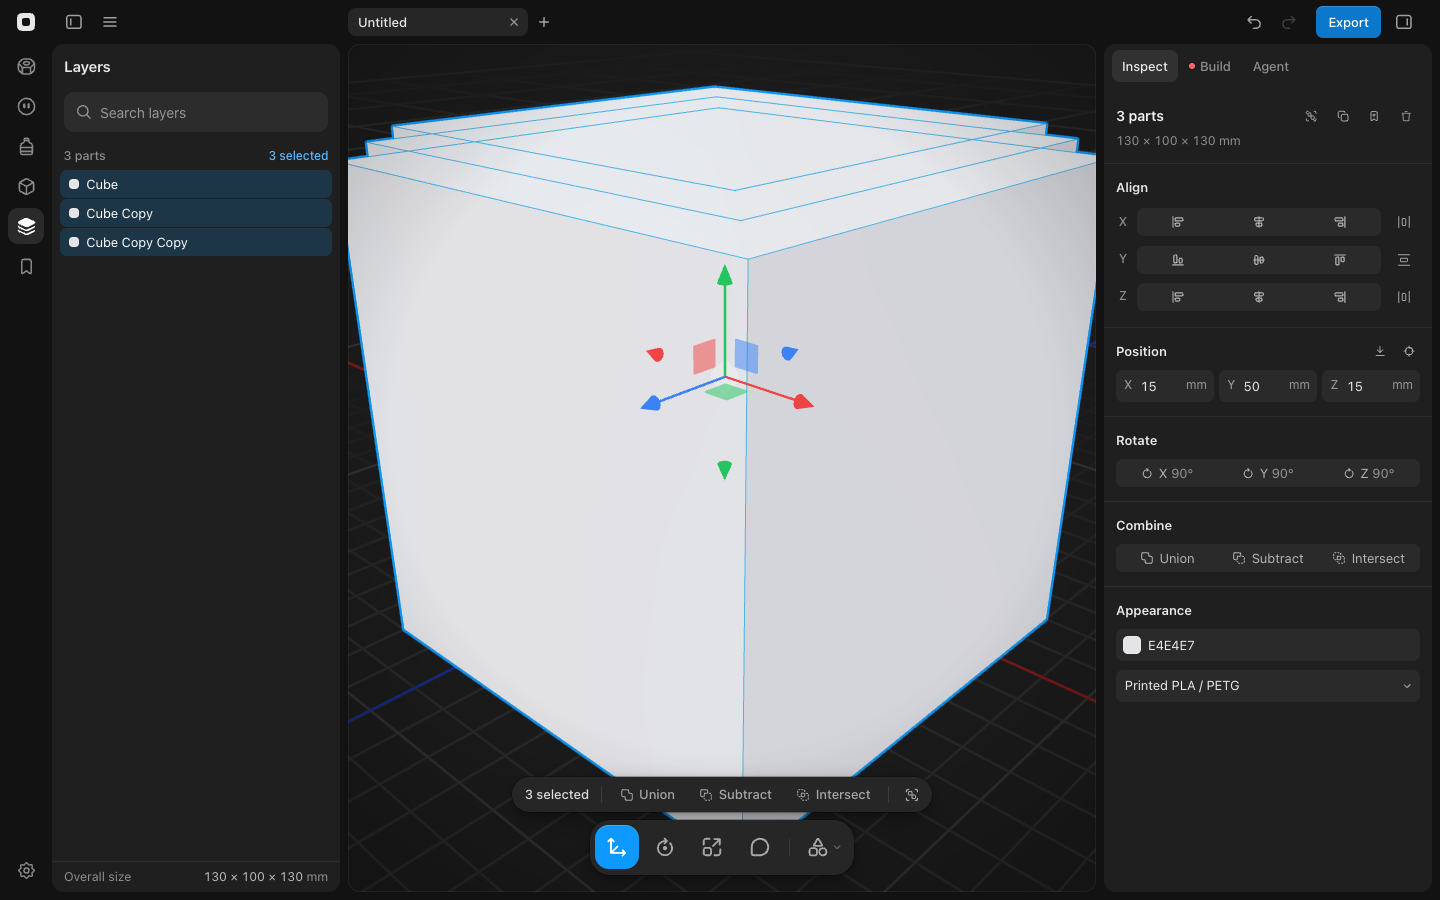
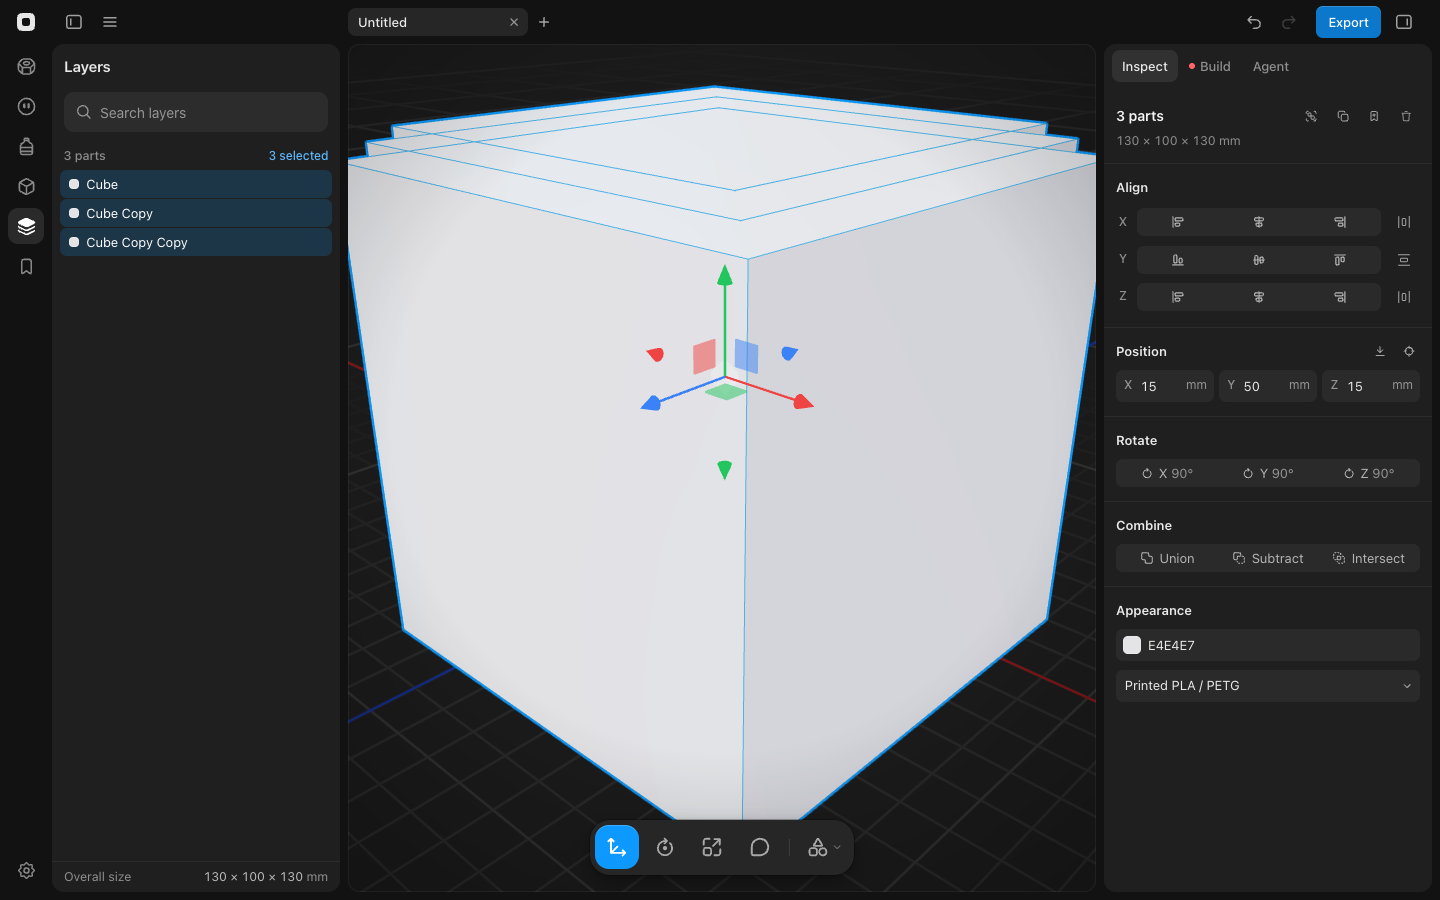
Drop the floating selection bar, which repeated the multi-selection Inspector
With two or more parts selected, a pill above the toolbar showed the
count, Union, Subtract, Intersect and Group/Ungroup, while the Inspector
beside it showed "N parts", the same Combine strip and the same group
buttons. Combine stays in the Inspector, the right-click menu and ⌘K,
and grouping on ⌘G / ⇧⌘G. The guides now say nothing floats over the
canvas for a multi-selection, and the Align help screenshot is retaken.

Changed region(s): [[0.375, 0.84, 0.5938, 0.9333]]

diff --git a/src/workspace/CanvasCard.tsx b/src/workspace/CanvasCard.tsx
@@ -5,7 +5,6 @@ import { FileImportIcon, PhotoIcon, Toast } from '../design-system';
 import { MarkBar } from './MarkBar';
 import { PlateCanvas } from './PlateCanvas';
 import { SceneViewport } from './SceneViewport';
-import { SelectionBar } from './SelectionBar';
 import type { AgentSession } from './useAgentSession';
 import type { CanvasMenu } from './useCanvasMenu';
 import type { useCanvasDrop } from './useCanvasDrop';
@@ -76,9 +75,8 @@ function CanvasToolbar({ core, actions, ui }: Pick<CanvasCardProps, 'core' | 'ac
   );
 }
 
-function CanvasBottomBar({ core, actions, ui, showSelectionBar }: CanvasCardProps & { showSelectionBar: boolean }) {
-  const { tool, selection, marks, toasts } = core;
-  const { ops, edits } = actions;
+function CanvasBottomBar({ core, actions, ui }: CanvasCardProps) {
+  const { tool, marks, toasts } = core;
 
   return (
     <div className="absolute bottom-5 inset-x-0 z-20 flex flex-col items-center gap-[8px] pointer-events-none">
@@ -88,14 +86,6 @@ function CanvasBottomBar({ core, actions, ui, showSelectionBar }: CanvasCardProp
         </div>
       )}
       {tool.marking && !core.printing.mode && <MarkBar marks={marks} onDone={() => tool.toggleMarking(false)} />}
-      {showSelectionBar && !core.printing.mode && (
-        <SelectionBar
-          selectedParts={selection.selectedParts}
-          onBoolean={ops.runBoolean}
-          onGroup={edits.group}
-          onUngroup={edits.ungroup}
-        />
-      )}
       <div className="pointer-events-auto">
         <CanvasToolbar core={core} actions={actions} ui={ui} />
       </div>
@@ -105,11 +95,8 @@ function CanvasBottomBar({ core, actions, ui, showSelectionBar }: CanvasCardProp
 
 export function CanvasCard(props: CanvasCardProps) {
   const { active, core, actions, agent, pointerHandlers, drop } = props;
-  const { selection, tool } = core;
   const { creation } = actions;
   const { imageInputRef } = creation;
-  const showSelectionBar =
-    selection.selectedParts.length > 1 && tool.transformMode !== 'pose' && !tool.marking && !tool.measuring;
 
   return (
     <main
@@ -136,7 +123,7 @@ export function CanvasCard(props: CanvasCardProps) {
         aria-hidden
         className="absolute inset-0 z-10 rounded-[12px] pointer-events-none shadow-[inset_0_0_0_1px_rgba(255,255,255,0.05)]"
       />
-      <CanvasBottomBar {...props} showSelectionBar={showSelectionBar} />
+      <CanvasBottomBar {...props} />
     </main>
   );
 }

diff --git a/src/index.css b/src/index.css
@@ -207,7 +207,7 @@
 
 @layer components {
   /*
- * Floating surfaces over the canvas (toolbar, selection bar, toasts, comment cards) and
+ * Floating surfaces over the canvas (toolbar, toasts, comment cards) and
  * menus/popovers/tooltips. Matte, like the rest of the app: a solid neutral fill and a soft
  * shadow; no translucency, specular highlight or outline.
  */

diff --git a/docs/guide/joints-and-motion.md b/docs/guide/joints-and-motion.md
@@ -14,7 +14,7 @@ A robot is posable once its degrees of freedom are declared. Posing never edits 
 - **Joints belong to their parts.** Deleting parts deletes every joint whose moving side is gone and drops the deleted ids from the rest (`jointsWithoutParts` in `kinematics.ts`, run by every `commitParts`); undo brings parts and joints back together.
 - **Undo:** pose changes are on the scene's undo timeline. Each history step (`Snapshot` in `SceneWorkspace`) holds the parts, the joints and the pose; `usePosing` reports every pose edit (sliders, the ring, saved poses, Rest pose, the agent's `pose`) through `onPoseEdit`, and edits less than 700 ms apart fold into one step, so a drag undoes in one go. Playback, scrubbing and pausing aren't recorded.
 - **Canvas:** `Viewport3D` takes per-part rest → posed motion (`pose`). Measurements, interference (check_scene), servo outputs and sweeps run in the modeled pose (`withRest`); renders show the pose. Moving a part while posed maps the edit back to the modeled pose.
-- **Pose tab** (right panel, beside Inspect, only while the selection is on a robot; P opens it, selecting the first robot if needed). It shows that robot's animations, poses and joints: while it's open, clicking a part picks the joint that turns it, and a single ring on its axis (an arrow for a slider) turns it in 1° / 1 mm steps (Shift is free). Picking a toolbar tool leaves the tab. Contents: Animations (play, scrub, + → Walk Cycle or Import BVH, or straight to Import BVH when the robot has no legs; right-click for Loop, Rename, Delete), Poses (Rest pose and Save pose in the header; click applies), then one collapsible section per limb (Head, Torso, Left arm…) with label · slider · value rows. The selection bar hides while posing.
+- **Pose tab** (right panel, beside Inspect, only while the selection is on a robot; P opens it, selecting the first robot if needed). It shows that robot's animations, poses and joints: while it's open, clicking a part picks the joint that turns it, and a single ring on its axis (an arrow for a slider) turns it in 1° / 1 mm steps (Shift is free). Picking a toolbar tool leaves the tab. Contents: Animations (play, scrub, + → Walk Cycle or Import BVH, or straight to Import BVH when the robot has no legs; right-click for Loop, Rename, Delete), Poses (Rest pose and Save pose in the header; click applies), then one collapsible section per limb (Head, Torso, Left arm…) with label · slider · value rows.
 - **Animation** (`utils/animation.ts`): `sampleAnimation` (Catmull-Rom or linear; whole-body turns slerp), `buildKeyframes` (values and IK goals per keyframe), `buildGait` (any number of feet; stance feet stay planted, swing feet lift; stride, lift, period, duty, crouch, bob, sway, heading and oscillators default from the leg length). Playback runs in `usePosing` and drives the canvas directly; pausing commits the frame as the pose.
 - **Posable hands** (`data/articulatedParts.ts`): catalog parts whose maker publishes a URDF / MJCF with the joints (Amazing Hand, LEAP, ORCA, Ability, Dex3-1, Dex5-1, Allegro, Linker L10 and O6) go in from Parts → Hands (click, + or drag) as that articulated model: links as `mesh` parts, fingers as joints, turned by the same `rotate` as their catalog mesh (`importRobot`'s `rotate` option uses tools/parts' `(x, z, −y)` frame), framed and selected. The palm carries `componentId`, so the Inspector shows Product and the BOM counts the hand once. If the description can't be downloaded, the fixed catalog mesh goes in instead. Hands without a published description (Inspire, HOPEJr, Aero) stay one mesh.
 - **The maker's data is never missing:** an import captures everything the checks and tools use (link masses and centres of mass, joint ranges, torque and speed limits), and every link records where it came from (`ScenePart.robotLink`: robot, link, source link, `rotate`, data `version`). When imports start capturing something new: add it to `publishedData` (it feeds both the import and the upgrade) and bump `ROBOT_DATA_VERSION`. Robots below the current version are upgraded from their description alone (no meshes), matched by link and joint name so poses and edits are kept: open scenes when they load (undo history included), saved scenes in the background when the app starts (saved back in place, `keepUpdatedAt`). Older robots without a recorded source are found by name (a preset, a Parts hand, Robots → Imported); one that can't be found gets a toast to insert it again. Animations report joints faster than their speed limit.

diff --git a/docs/guide/inspector-and-selection.md b/docs/guide/inspector-and-selection.md
@@ -46,7 +46,6 @@ Part of the Basecase guide. [AGENTS.md](../../AGENTS.md) holds the rules every c
 - **Booleans:**
   - With 2+ parts, Union, Subtract (from the primary) and Intersect replace them with one mesh.
   - With one part, Subtract uses every visible Cutout that overlaps it.
-- **Selection bar:** with 2+ parts selected, a glass pill above the toolbar shows the count, Union, Subtract, Intersect and Group/Ungroup.
 - **Align (`AlignBar`):**
   - One icon strip per axis: X Left·Center·Right, Y Bottom·Middle·Top, Z Back·Center·Front, with Spread beside each (disabled under 3 parts). The right-click Align submenu and the multi-selection Inspector show the same strip; a click in the submenu closes the menu.
   - Several parts align to their shared bounds; one part aligns to the origin (Bottom = floor).
@@ -84,4 +83,4 @@ There's no Shape tab. These panels appear in place of the Inspector only while t
 - **Sketch:** opened from Shapes ▾ → Sketch, ⌘K or right-click. Extrude / Revolve, Points / Freehand / Hole tools, snap, undo point, clear, then Output fields.
 - **Import SVG:** opened from Shapes ▾, ⌘K, right-click or the Library. Drop zone, samples, paste code, preview, then Output fields. “Edit in Sketch”, beside the preview, hands the outline to Sketch.
 - Adding a part from Sketch or SVG closes the panel and shows the new part in the Inspector.
-- Combine lives in the selection bar, the right-click menu and the multi-selection Inspector.
+- Combine lives in the multi-selection Inspector, the right-click menu and ⌘K; nothing floats over the canvas for a multi-selection.

diff --git a/docs/guide/visual-system.md b/docs/guide/visual-system.md
@@ -31,7 +31,7 @@ Part of the Basecase guide. [AGENTS.md](../../AGENTS.md) holds the rules every c
   - A new container that holds dividers sets `--pad-x` to its horizontal padding (e.g. `[--pad-x:8px] p-[var(--pad-x)]`) instead of a plain `p-2`.
   - Borders on a block that already spans the container (panel headers, `Section`) count as full width.
 - **Floating surfaces (`.glass`, `.glass-menu` in `index.css`; the names are historical):**
-  - Use only for controls floating over the 3D canvas (toolbar, selection bar, toasts, comment cards), the composer's quote card, and menus, popovers and tooltips.
+  - Use only for controls floating over the 3D canvas (toolbar, toasts, comment cards), the composer's quote card, and menus, popovers and tooltips.
   - **Matte, not glass:** a solid neutral fill (`#262626` floating controls, `#282828` menus) and a soft drop shadow with a 0.5px dark keyline. No translucency, backdrop blur, specular highlight or light outline.
   - Never on the panel cards or the window chrome.
 - **Motion:**
